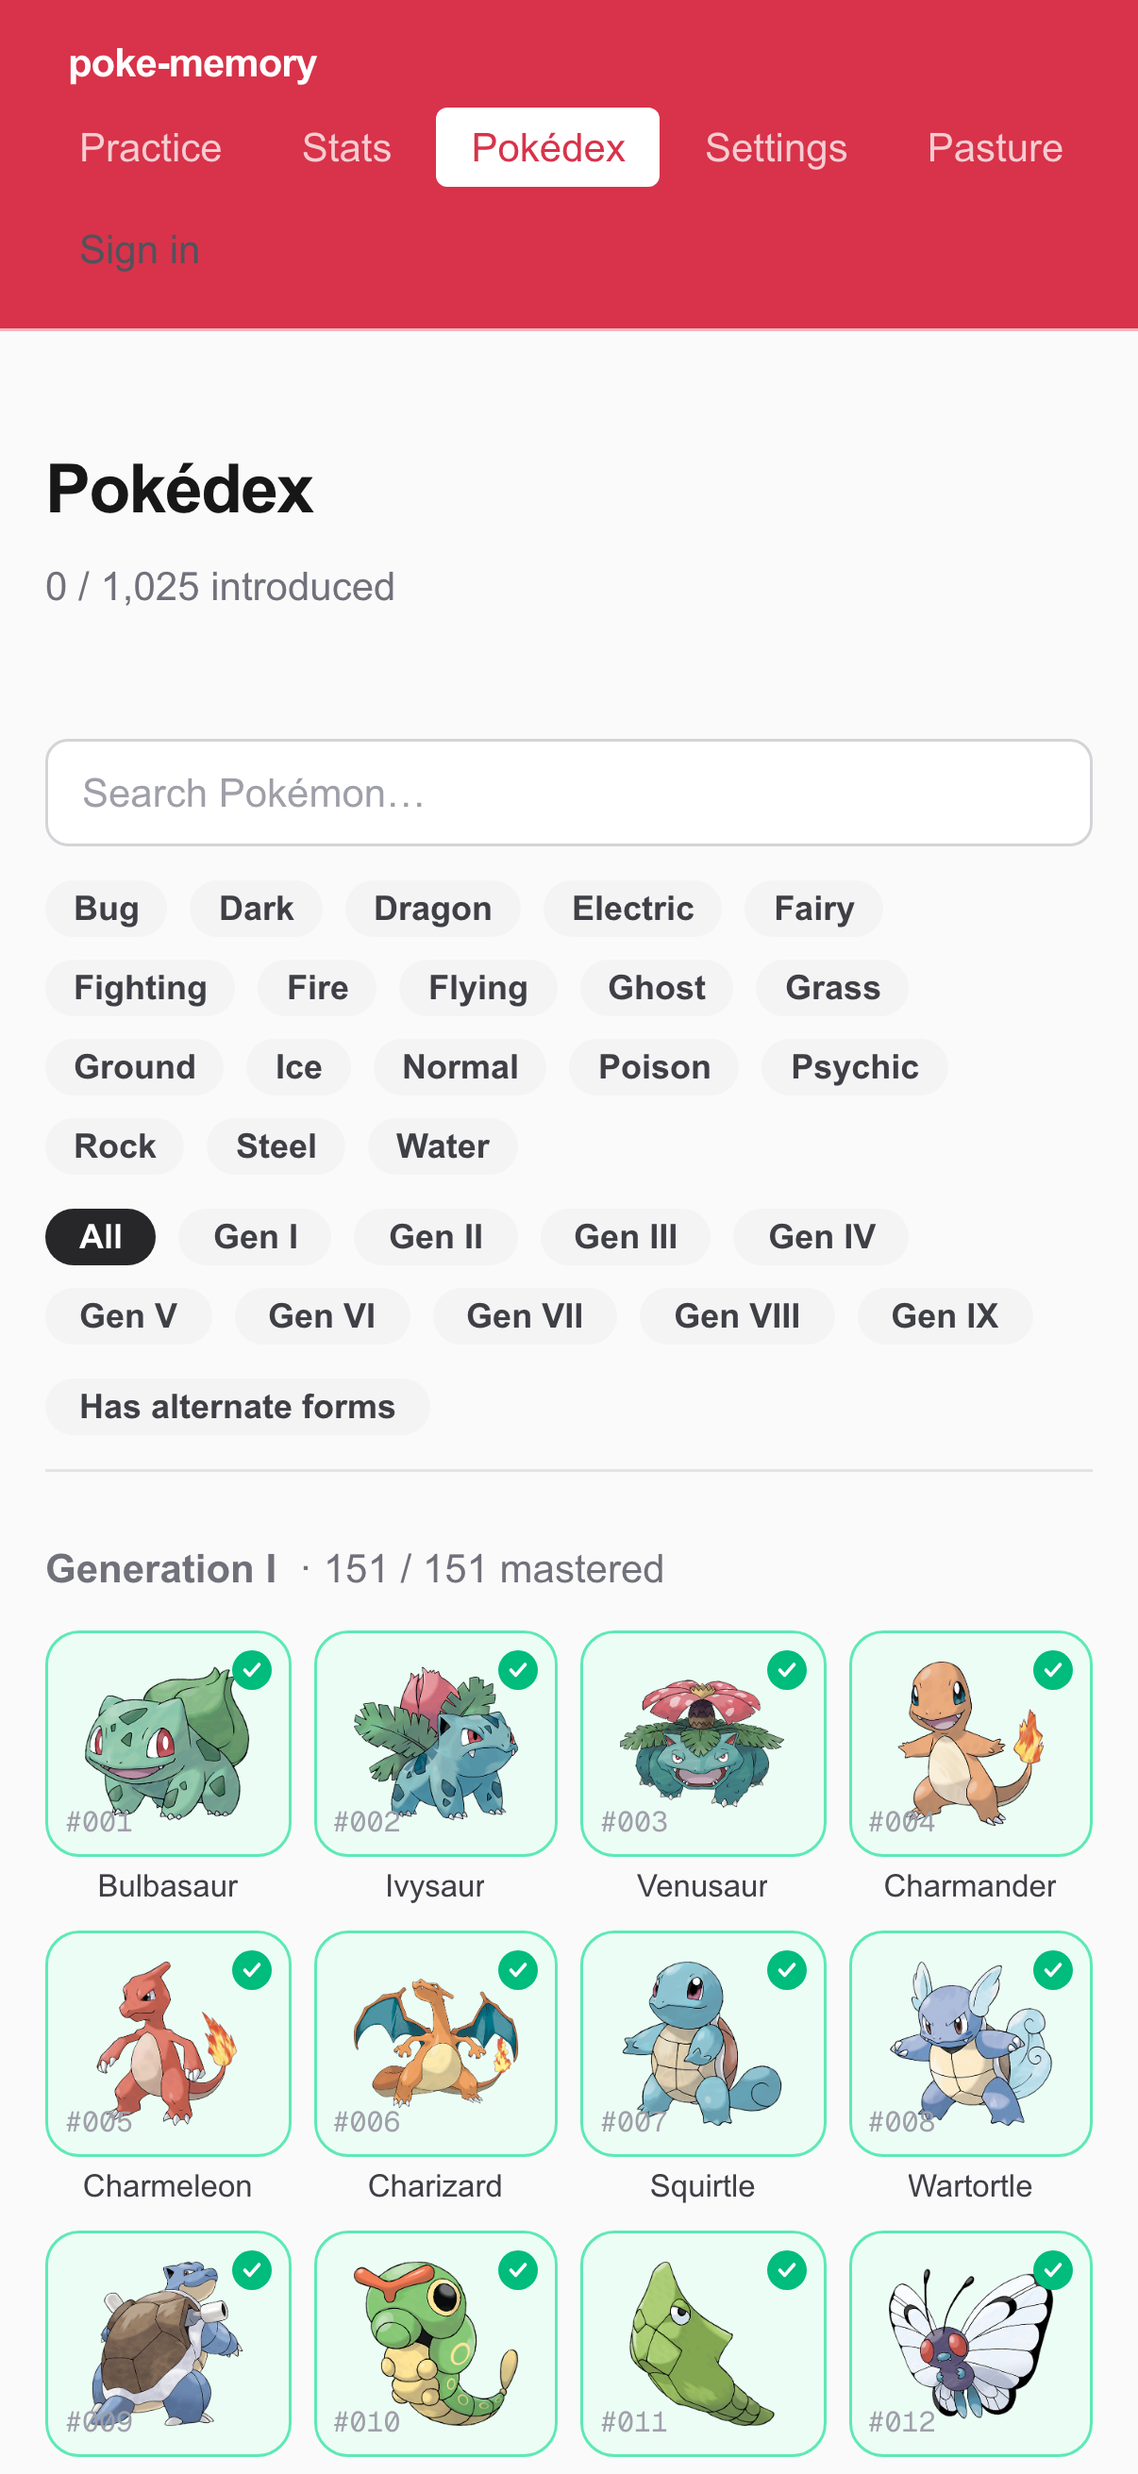
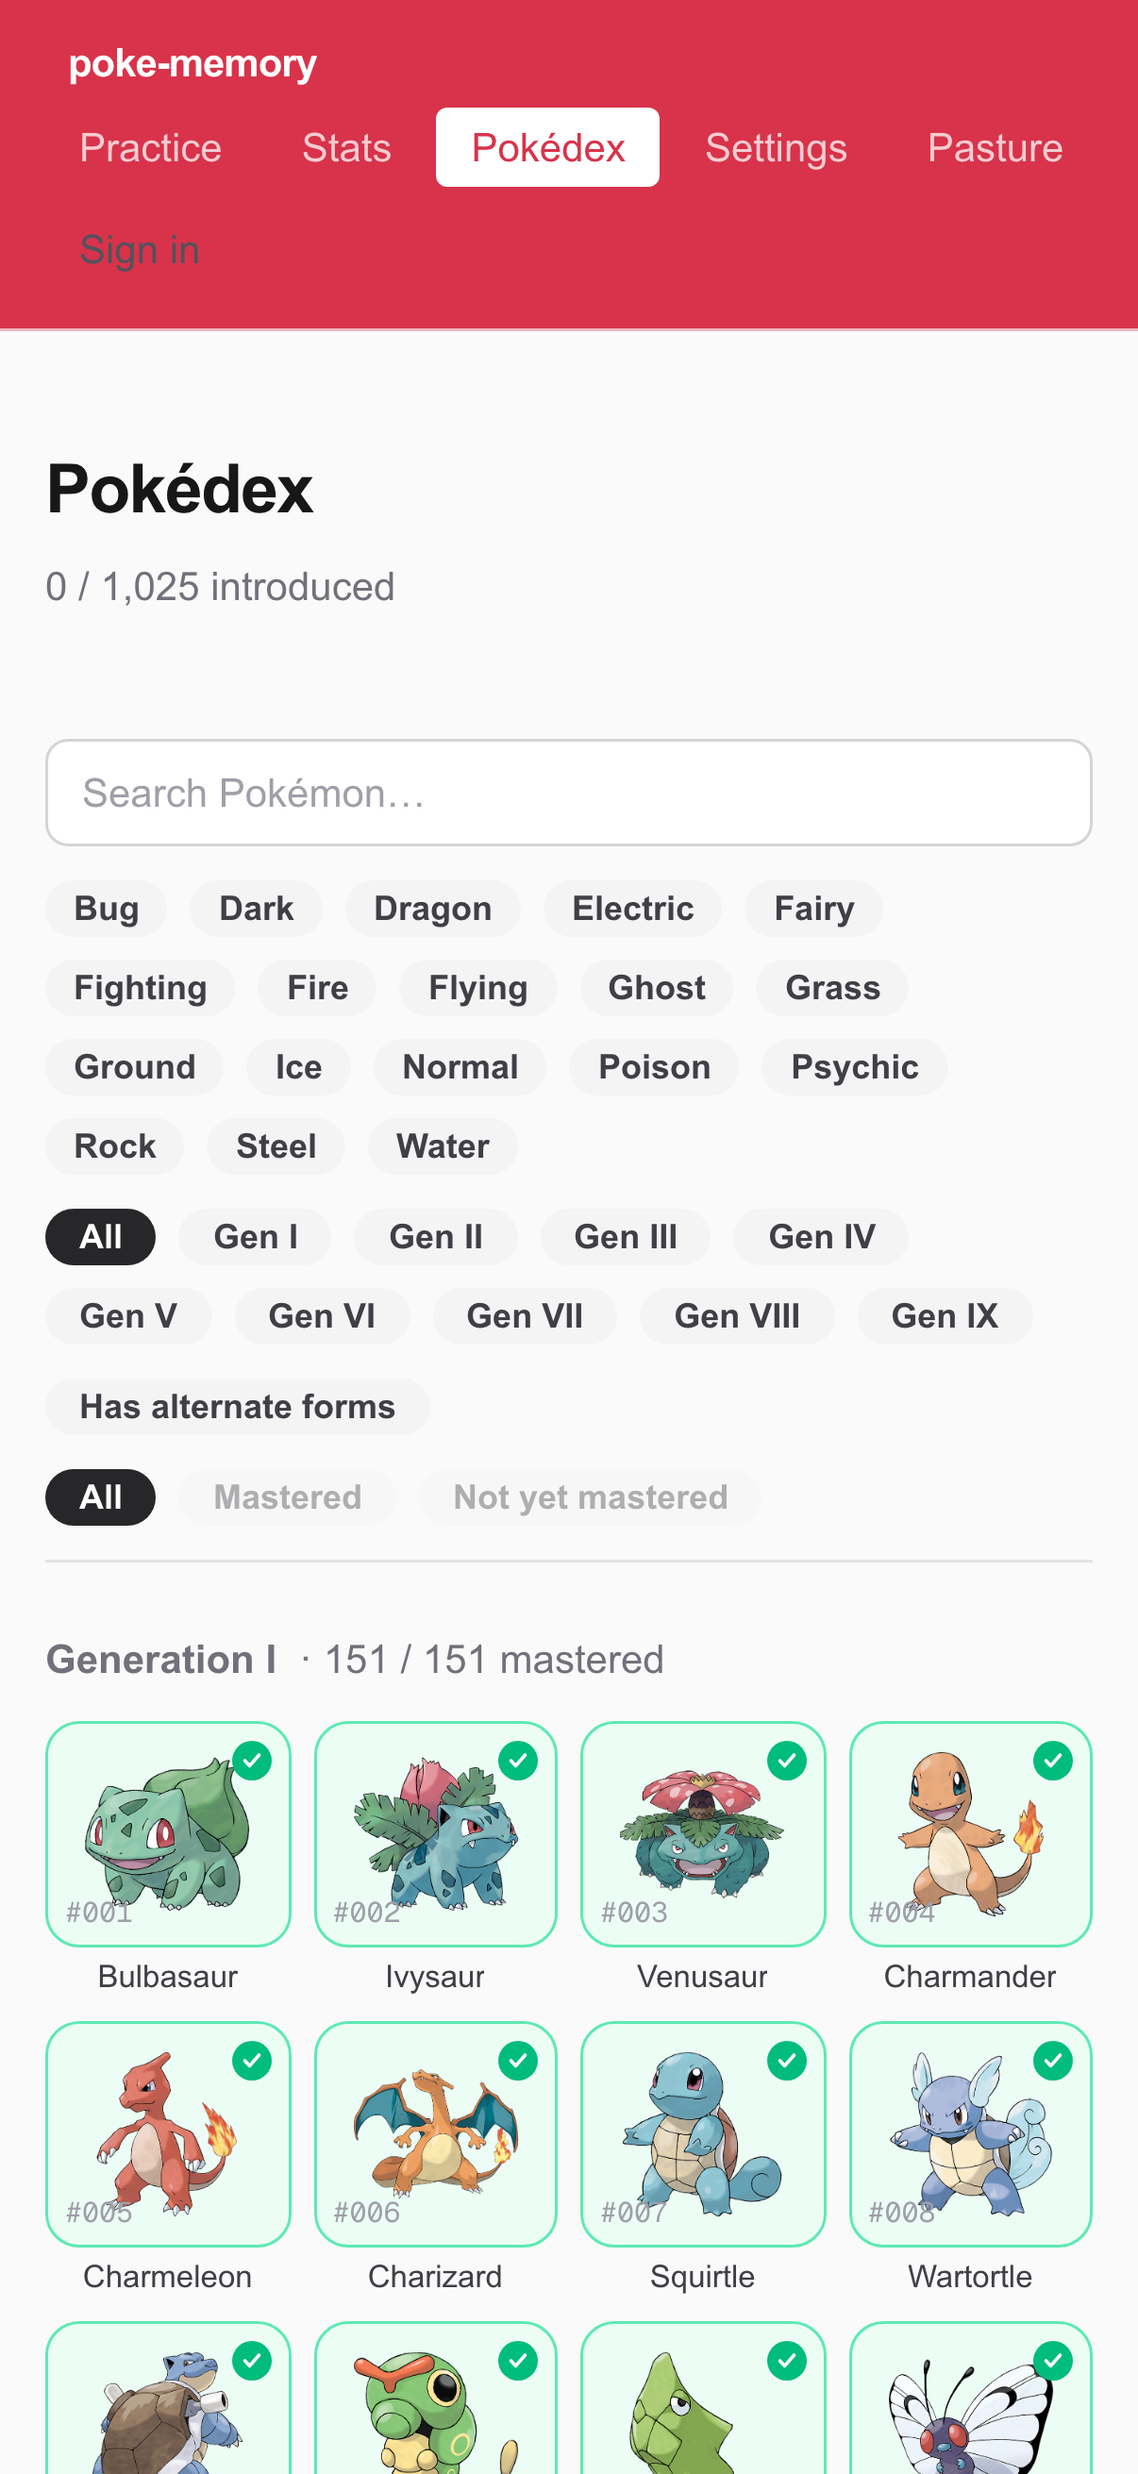
feat: mastery-status filter in Pokédex grid (#542) (#632)
* closes #542

Add mastery-status filter to Pokédex grid so users can isolate type + not-yet-mastered combinations.

* test: match Mastered chip exactly so it doesn't also match 'Not yet mastered'

Changed region(s): [[0.2454, 0.587, 0.9511, 1.0], [0.0307, 0.587, 0.3068, 1.0]]

diff --git a/lib/pokemon/filter.test.ts b/lib/pokemon/filter.test.ts
@@ -35,7 +35,7 @@ function basePokemon(overrides: Partial<PokemonCellData> = {}): PokemonCellData 
   };
 }
 
-const noFilters: PokedexFilters = { query: '', types: [], gen: null, hasAlternateForms: false };
+const noFilters: PokedexFilters = { query: '', types: [], gen: null, hasAlternateForms: false, masteryStatus: 'all' };
 
 // A small fixture set covering two gens and multiple types.
 // Gen 1 IDs: 1–151; Gen 2 IDs: 152–251.
@@ -105,19 +105,60 @@ describe('filterPokemon', () => {
 
   it('combined query + gen: both axes must match (AND)', () => {
     // "charman" matches only charmander (gen 1), not anything in gen 2
-    const result = filterPokemon(FIXTURES, { query: 'charman', types: [], gen: 1, hasAlternateForms: false });
+    const result = filterPokemon(FIXTURES, { query: 'charman', types: [], gen: 1, hasAlternateForms: false, masteryStatus: 'all' });
     expect(result).toHaveLength(1);
     expect(result[0].name).toBe('charmander');
   });
 
   it('combined query + gen: returns empty when gen matches but query does not', () => {
-    const result = filterPokemon(FIXTURES, { query: 'xyz', types: [], gen: 1, hasAlternateForms: false });
+    const result = filterPokemon(FIXTURES, { query: 'xyz', types: [], gen: 1, hasAlternateForms: false, masteryStatus: 'all' });
     expect(result).toHaveLength(0);
   });
 
   it('zero-result case returns empty array', () => {
-    const result = filterPokemon(FIXTURES, { query: 'zzz', types: ['electric'], gen: 9, hasAlternateForms: false });
+    const result = filterPokemon(FIXTURES, { query: 'zzz', types: ['electric'], gen: 9, hasAlternateForms: false, masteryStatus: 'all' });
     expect(result).toEqual([]);
+  });
+});
+
+describe('filterPokemon — masteryStatus filter', () => {
+  // Fixture set with varied cardClass values.
+  const MASTERY_FIXTURES: PokemonCellData[] = [
+    basePokemon({ id: 1, speciesId: 1, name: 'bulbasaur',  types: ['grass', 'poison'], cardClass: 'locked' }),
+    basePokemon({ id: 4, speciesId: 4, name: 'charmander', types: ['fire'],            cardClass: 'learning' }),
+    basePokemon({ id: 6, speciesId: 6, name: 'charizard',  types: ['fire', 'flying'],  cardClass: 'mastered' }),
+    basePokemon({ id: 7, speciesId: 7, name: 'squirtle',   types: ['water'],           cardClass: 'mastered' }),
+  ];
+
+  it('masteryStatus "all" returns all pokemon', () => {
+    const result = filterPokemon(MASTERY_FIXTURES, { ...noFilters, masteryStatus: 'all' });
+    expect(result).toHaveLength(MASTERY_FIXTURES.length);
+  });
+
+  it('masteryStatus "mastered" returns only mastered pokemon', () => {
+    const result = filterPokemon(MASTERY_FIXTURES, { ...noFilters, masteryStatus: 'mastered' });
+    const names = result.map((p) => p.name).sort();
+    expect(names).toEqual(['charizard', 'squirtle']);
+  });
+
+  it('masteryStatus "not-yet-mastered" returns locked and learning pokemon', () => {
+    const result = filterPokemon(MASTERY_FIXTURES, { ...noFilters, masteryStatus: 'not-yet-mastered' });
+    const names = result.map((p) => p.name).sort();
+    expect(names).toEqual(['bulbasaur', 'charmander']);
+  });
+
+  it('masteryStatus "mastered" composes with type filter (AND semantics)', () => {
+    // Only charizard is fire + mastered; squirtle is mastered but not fire
+    const result = filterPokemon(MASTERY_FIXTURES, { ...noFilters, types: ['fire'], masteryStatus: 'mastered' });
+    expect(result).toHaveLength(1);
+    expect(result[0].name).toBe('charizard');
+  });
+
+  it('masteryStatus "not-yet-mastered" composes with type filter', () => {
+    // charmander is fire + not-yet-mastered; charizard is fire but mastered
+    const result = filterPokemon(MASTERY_FIXTURES, { ...noFilters, types: ['fire'], masteryStatus: 'not-yet-mastered' });
+    expect(result).toHaveLength(1);
+    expect(result[0].name).toBe('charmander');
   });
 });
 
@@ -257,7 +298,7 @@ describe('parseFilters', () => {
 
   it('returns defaults when no params are present', () => {
     const result = parseFilters(params({}));
-    expect(result).toEqual({ query: '', types: [], gen: null, hasAlternateForms: false });
+    expect(result).toEqual({ query: '', types: [], gen: null, hasAlternateForms: false, masteryStatus: 'all' });
   });
 
   it('reads q into query', () => {
@@ -303,5 +344,25 @@ describe('parseFilters', () => {
   it('maps forms=0 to hasAlternateForms=false', () => {
     const result = parseFilters(params({ forms: '0' }));
     expect(result.hasAlternateForms).toBe(false);
+  });
+
+  it('parses mastery=mastered', () => {
+    const result = parseFilters(params({ mastery: 'mastered' }));
+    expect(result.masteryStatus).toBe('mastered');
+  });
+
+  it('parses mastery=not-yet-mastered', () => {
+    const result = parseFilters(params({ mastery: 'not-yet-mastered' }));
+    expect(result.masteryStatus).toBe('not-yet-mastered');
+  });
+
+  it('maps missing mastery param to "all"', () => {
+    const result = parseFilters(params({}));
+    expect(result.masteryStatus).toBe('all');
+  });
+
+  it('maps invalid mastery param to "all"', () => {
+    const result = parseFilters(params({ mastery: 'unknown' }));
+    expect(result.masteryStatus).toBe('all');
   });
 });

diff --git a/components/pokedex/PokedexFilterBar.tsx b/components/pokedex/PokedexFilterBar.tsx
@@ -1,6 +1,6 @@
 "use client";
 
-import type { PokedexFilters } from "@/lib/pokemon/filter";
+import type { PokedexFilters, MasteryStatus } from "@/lib/pokemon/filter";
 import { POKEMON_TYPES, TYPE_COLORS } from "@/lib/pokemon/types";
 
 // ---------------------------------------------------------------------------
@@ -29,11 +29,20 @@ type FilterBarProps = {
   onTypeToggle: (type: string) => void;
   onGenChange: (gen: number | null) => void;
   onAlternateFormsToggle: () => void;
+  onMasteryChange: (masteryStatus: MasteryStatus) => void;
+  /** When true (superuser pretendAllMastered on), the mastery filter is locked to "all" and disabled. */
+  superuserMasteryLocked?: boolean;
 };
 
 // ---------------------------------------------------------------------------
 // PokedexFilterBar
 // ---------------------------------------------------------------------------
+
+const MASTERY_OPTIONS: { value: MasteryStatus; label: string }[] = [
+  { value: "all", label: "All" },
+  { value: "mastered", label: "Mastered" },
+  { value: "not-yet-mastered", label: "Not yet mastered" },
+];
 
 export default function PokedexFilterBar({
   filters,
@@ -41,6 +50,8 @@ export default function PokedexFilterBar({
   onTypeToggle,
   onGenChange,
   onAlternateFormsToggle,
+  onMasteryChange,
+  superuserMasteryLocked = false,
 }: FilterBarProps) {
   return (
     <div className="sticky top-0 z-10 bg-background py-3 border-b border-zinc-200 dark:border-zinc-800 mb-6">
@@ -145,7 +156,7 @@ export default function PokedexFilterBar({
       <div
         role="group"
         aria-label="Additional filters"
-        className="flex flex-wrap gap-2"
+        className="flex flex-wrap gap-2 mb-3"
       >
         <button
           type="button"
@@ -160,6 +171,41 @@ export default function PokedexFilterBar({
         >
           Has alternate forms
         </button>
+      </div>
+
+      {/* Mastery status filter */}
+      <div
+        role="group"
+        aria-label="Filter by mastery"
+        className="flex flex-wrap gap-2"
+      >
+        {MASTERY_OPTIONS.map(({ value, label }) => {
+          const isSelected = filters.masteryStatus === value;
+          return (
+            <button
+              key={value}
+              type="button"
+              onClick={() => onMasteryChange(value)}
+              aria-pressed={isSelected}
+              disabled={superuserMasteryLocked && value !== "all"}
+              title={
+                superuserMasteryLocked && value !== "all"
+                  ? "Mastery filter unavailable while pretend-all-mastered is on"
+                  : undefined
+              }
+              className={[
+                "rounded-full px-3 py-0.5 text-xs font-semibold transition-colors focus-visible:outline-none focus-visible:ring-2 focus-visible:ring-[var(--theme-accent)] focus-visible:ring-offset-1",
+                superuserMasteryLocked && value !== "all"
+                  ? "cursor-not-allowed opacity-40 bg-zinc-100 text-zinc-700 dark:bg-zinc-800 dark:text-zinc-300"
+                  : isSelected
+                    ? "bg-zinc-800 text-white dark:bg-zinc-100 dark:text-zinc-900"
+                    : "bg-zinc-100 text-zinc-700 dark:bg-zinc-800 dark:text-zinc-300",
+              ].join(" ")}
+            >
+              {label}
+            </button>
+          );
+        })}
       </div>
     </div>
   );

diff --git a/e2e/pokedex.spec.ts b/e2e/pokedex.spec.ts
@@ -204,6 +204,83 @@ test.describe("Pokédex detail — Forms section hidden when locked (#495)", () 
   });
 });
 
+test.describe("Pokédex mastery-status filter (#542)", () => {
+  test("selecting a type then 'Not yet mastered' narrows the grid", async ({ page }) => {
+    // Seed Bulbasaur (id=1) as mastered so there is at least one mastered species,
+    // and leave all others at default (locked) so "not-yet-mastered" yields results.
+    await seedSessionIdb(page, {
+      cards: [
+        {
+          id: 1,
+          name: "Bulbasaur",
+          spriteUrl: "/sprites/pokemon/1.png",
+          cardType: "name",
+          state: {
+            stability: 30,
+            difficulty: 4,
+            elapsedDays: 30,
+            scheduledDays: 30,
+            reps: 5,
+            lapses: 0,
+            fsrsState: "review",
+            dueDate: "2099-01-01",
+            lastReview: "2026-05-01",
+            firstSeen: "2026-04-01",
+            learningStep: null,
+            stepStartedAt: null,
+          },
+        },
+      ],
+      limits: {
+        name: { maxNewPerDay: 10, maxReviewsPerDay: 100 },
+        evolution: { maxNewPerDay: 5, maxReviewsPerDay: 50 },
+        reverse: { maxNewPerDay: 10, maxReviewsPerDay: 100 },
+        cry: { maxNewPerDay: 10, maxReviewsPerDay: 100 },
+      },
+    });
+
+    await page.goto("/pokedex");
+    await expect(
+      page.getByRole("heading", { level: 1, name: "Pokédex" }),
+    ).toBeVisible();
+
+    // Wait for the grid to load (IDB hydration).
+    const pokemonLists = page.getByRole("list", { name: /Pokémon/ });
+    await expect(pokemonLists.first()).toBeVisible();
+
+    // Count all Grass-type tiles.
+    const typeGroup = page.getByRole("group", { name: "Filter by type" });
+    await typeGroup.getByRole("button", { name: "Grass" }).click();
+    await page.waitForURL(/type=grass/);
+    const grassCount = await pokemonLists.getByRole("listitem").count();
+    expect(grassCount).toBeGreaterThan(0);
+
+    // Now narrow by "Not yet mastered" — Bulbasaur is mastered so it should drop out.
+    const masteryGroup = page.getByRole("group", { name: "Filter by mastery" });
+    await masteryGroup.getByRole("button", { name: "Not yet mastered" }).click();
+    await page.waitForURL(/mastery=not-yet-mastered/);
+
+    // The result should still have some Grass Pokémon (the locked ones) but
+    // strictly fewer than the full Grass set (Bulbasaur is now excluded).
+    const notYetMasteredCount = await pokemonLists.getByRole("listitem").count();
+    expect(notYetMasteredCount).toBeGreaterThan(0);
+    expect(notYetMasteredCount).toBeLessThan(grassCount);
+  });
+
+  test("mastery filter URL param is preserved on page load", async ({ page }) => {
+    await page.goto("/pokedex?mastery=mastered");
+    await expect(
+      page.getByRole("heading", { level: 1, name: "Pokédex" }),
+    ).toBeVisible();
+
+    // The "Mastered" chip should be pressed.
+    const masteryGroup = page.getByRole("group", { name: "Filter by mastery" });
+    await expect(
+      masteryGroup.getByRole("button", { name: "Mastered", exact: true }),
+    ).toHaveAttribute("aria-pressed", "true");
+  });
+});
+
 test.describe("Pokédex — alternate-form surfaces (#450)", () => {
   test("searching 'alolan' shows at least 1 result when seed has forms, or shows 0 gracefully", async ({
     page,

diff --git a/components/pokedex/PokedexFiltered.tsx b/components/pokedex/PokedexFiltered.tsx
@@ -3,7 +3,8 @@
 import { useState, useCallback, useRef } from "react";
 import { useSearchParams, useRouter } from "next/navigation";
 import { filterPokemon, parseFilters } from "@/lib/pokemon/filter";
-import type { PokemonCellData, PokedexFilters } from "@/lib/pokemon/filter";
+import type { PokemonCellData, PokedexFilters, MasteryStatus } from "@/lib/pokemon/filter";
+import { useSuperuser } from "@/lib/superuser/SuperuserContext";
 import PokedexFilterBar from "./PokedexFilterBar";
 import PokedexGrid from "./PokedexGrid";
 
@@ -17,6 +18,7 @@ function buildUrl(filters: PokedexFilters): string {
   if (filters.types.length > 0) params.set("type", filters.types.join(","));
   if (filters.gen !== null) params.set("gen", String(filters.gen));
   if (filters.hasAlternateForms) params.set("forms", "1");
+  if (filters.masteryStatus !== "all") params.set("mastery", filters.masteryStatus);
   const qs = params.toString();
   return qs ? `/pokedex?${qs}` : "/pokedex";
 }
@@ -34,6 +36,7 @@ type Props = { enrichedPokemon: PokemonCellData[] };
 export default function PokedexFiltered({ enrichedPokemon }: Props) {
   const searchParams = useSearchParams();
   const router = useRouter();
+  const { flags } = useSuperuser();
 
   const filters = parseFilters(searchParams);
 
@@ -80,19 +83,36 @@ export default function PokedexFiltered({ enrichedPokemon }: Props) {
     );
   }, [router, filters]);
 
+  const handleMasteryChange = useCallback(
+    (masteryStatus: MasteryStatus) => {
+      router.replace(buildUrl({ ...filters, masteryStatus }), { scroll: false });
+    },
+    [router, filters],
+  );
+
+  // When pretendAllMastered is on, every Pokémon reads as mastered in the grid,
+  // so "not-yet-mastered" would always yield an empty result. Override the
+  // effective mastery filter to "all" so the grid stays coherent.
+  const effectiveMasteryStatus: MasteryStatus = flags.pretendAllMastered
+    ? "all"
+    : filters.masteryStatus;
+
   const filtered = filterPokemon(enrichedPokemon, {
     ...filters,
+    masteryStatus: effectiveMasteryStatus,
     query: localQuery,
   });
 
   return (
     <>
       <PokedexFilterBar
-        filters={{ ...filters, query: localQuery }}
+        filters={{ ...filters, query: localQuery, masteryStatus: effectiveMasteryStatus }}
         onQueryChange={handleQueryChange}
         onTypeToggle={handleTypeToggle}
         onGenChange={handleGenChange}
         onAlternateFormsToggle={handleAlternateFormsToggle}
+        onMasteryChange={handleMasteryChange}
+        superuserMasteryLocked={flags.pretendAllMastered}
       />
       <PokedexGrid
         pokemon={filtered}

diff --git a/lib/pokemon/filter.ts b/lib/pokemon/filter.ts
@@ -5,11 +5,14 @@ import type { CardClass } from "@/lib/stats/derive";
 
 export type PokemonCellData = SeedPokemon & { cardClass: CardClass };
 
+export type MasteryStatus = "all" | "mastered" | "not-yet-mastered";
+
 export type PokedexFilters = {
   query: string;              // substring match on name or form displayName; empty = no filter
   types: string[];            // AND/intersection: pokemon must have all selected types; empty = no type filter
   gen: number | null;         // null = all gens; 1–9 = specific gen
   hasAlternateForms: boolean; // true = only species with at least one non-default form
+  masteryStatus: MasteryStatus; // "all" = no mastery filter; "mastered" / "not-yet-mastered" = filter by cardClass
 };
 
 // Pre-compute a map from speciesId → non-default form displayNames for fast
@@ -66,6 +69,15 @@ export function filterPokemon(
       }
     }
 
+    if (filters.masteryStatus !== "all") {
+      if (filters.masteryStatus === "mastered" && p.cardClass !== "mastered") {
+        return false;
+      }
+      if (filters.masteryStatus === "not-yet-mastered" && p.cardClass === "mastered") {
+        return false;
+      }
+    }
+
     return true;
   });
 }
@@ -87,5 +99,11 @@ export function parseFilters(
 
   const hasAlternateForms = searchParams.get("forms") === "1";
 
-  return { query, types, gen, hasAlternateForms };
+  const masteryParam = searchParams.get("mastery") ?? "";
+  const masteryStatus: MasteryStatus =
+    masteryParam === "mastered" || masteryParam === "not-yet-mastered"
+      ? masteryParam
+      : "all";
+
+  return { query, types, gen, hasAlternateForms, masteryStatus };
 }

diff --git a/changelog.d/unreleased/542-pokedex-mastery-filter.md b/changelog.d/unreleased/542-pokedex-mastery-filter.md
@@ -1,0 +1,4 @@
+---
+kind: added
+---
+- Add a mastery-status filter to the Pokédex grid so users can isolate "type X, not yet mastered" combinations.
